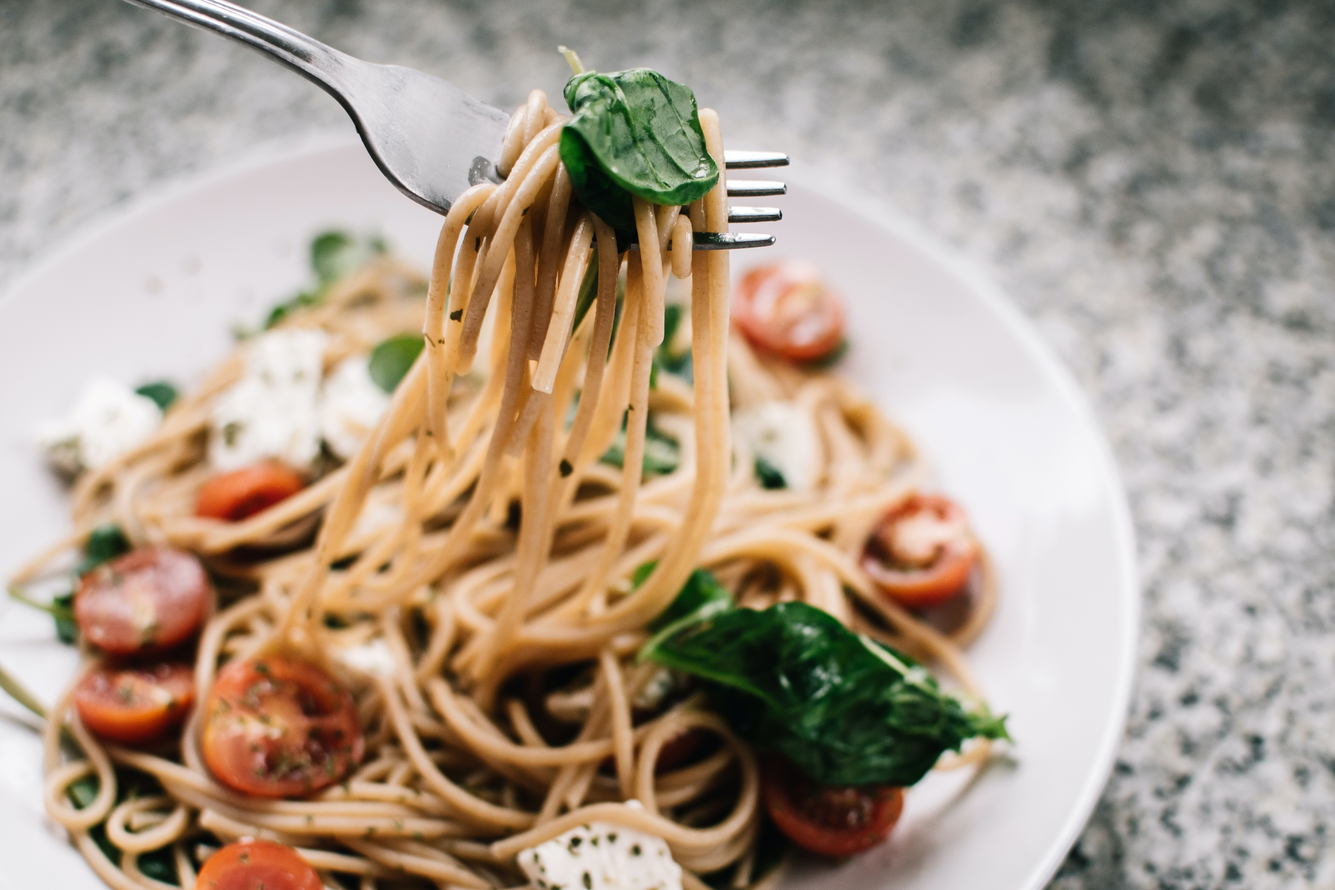
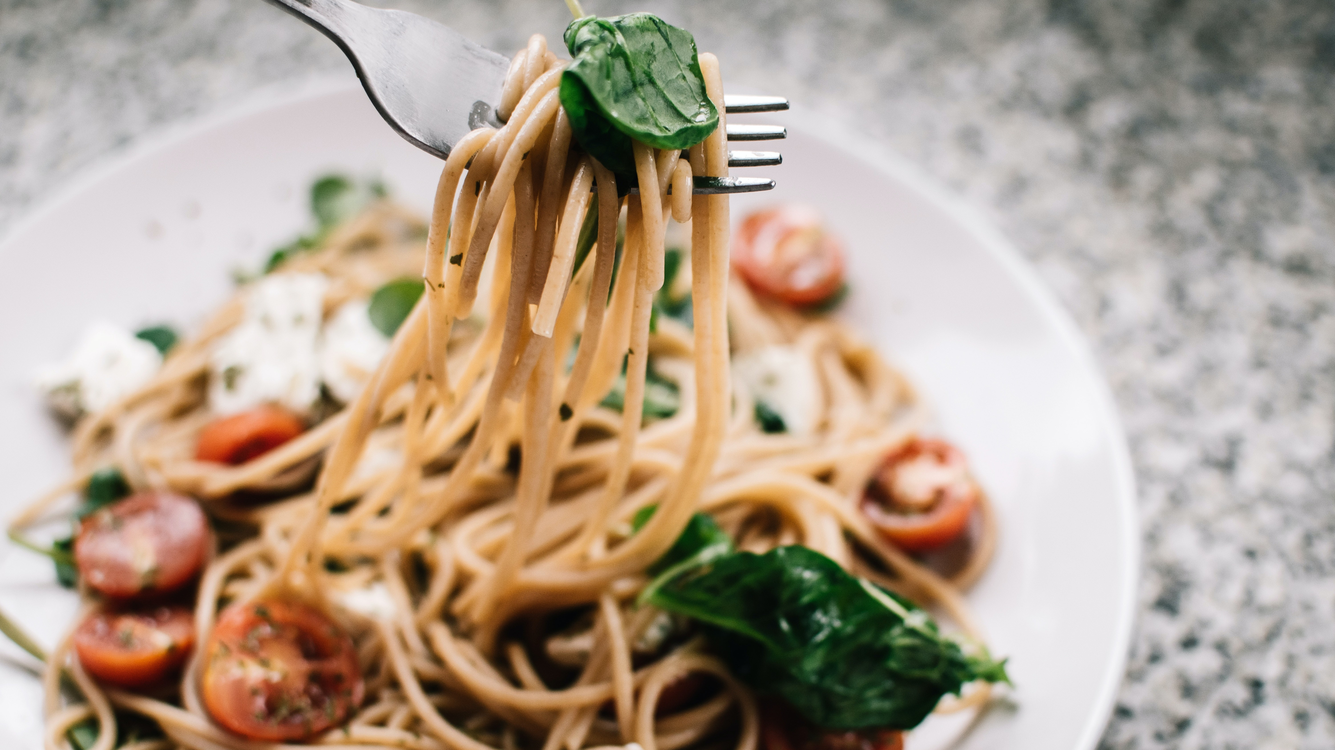
Add dynamic menu with jquery, resizing photos to same aspect ratio

diff --git a/src/index.html b/src/index.html
@@ -23,7 +23,7 @@
             </nav>
             <div class="title-resBtn-container">
                 <h1 class="title">RESTAURANT LP</h1>
-                <button class="title-resBtn" style="background-color: #4e4b5c;">RESERVATIONS</button>
+                <button class="btn title-resBtn" style="background-color: #4e4b5c;">RESERVATIONS</button>
             </div>
         </div>
     </header>
@@ -44,12 +44,12 @@
             </div>
             <div id="menu" class="main-content-block" data-aos="fade" data-aos-delay="400" data-aos-offset="150" data-aos-duration="1000">
                 <h2>Menu</h2>
-                <div class="menu-button-container">
-                    <button class="title-resBtn" style="background-color: #4e4b5c;">Lunch</button>
-                    <button class="title-resBtn" style="background-color: #4e4b5c;">Dinner</button>
-                    <button class="title-resBtn" style="background-color: #4e4b5c;">Wine & Cocktails</button>
+                <div class="menu-btn-container">
+                    <button id="lunch-menu-btn" class="btn menu-btn" style="background-color: #4e4b5c;">Lunch</button>
+                    <button id="dinner-menu-btn" class="btn menu-btn" style="background-color: #4e4b5c;">Dinner</button>
+                    <button id="drink-menu-btn" class="btn menu-btn" style="background-color: #4e4b5c;">Wine & Cocktails</button>
                 </div>
-                <div class="menu-grid-container">
+                <div id='lunch-menu-container' class="menu-grid-container">
                     <div class="menu-grid-item">
                         <h2>Lunch Item</h2>
                         <p>Lorem ipsum dolor sit amet, consectetur adipiscing elit</p>
@@ -80,11 +80,45 @@
                     </div>
                     <div class="menu-grid-item">
                         <h2>Lunch Item</h2>
+                        <p>Lorem ipsum dolor sit amet, consectetur adipiscing elit</p>
+                    </div>
+                </div>
+                <div id="dinner-menu-container" class="menu-grid-container">
+                    <div class="menu-grid-item">
+                        <h2>Dinner Item</h2>
+                        <p>Lorem ipsum dolor sit amet, consectetur adipiscing elit</p>
+                    </div>
+                    <div class="menu-grid-item">
+                        <h2>Dinner Item</h2>
+                        <p>Lorem ipsum dolor sit amet, consectetur adipiscing elit</p>
+                    </div>
+                    <div class="menu-grid-item">
+                        <h2>Dinner Item</h2>
+                        <p>Lorem ipsum dolor sit amet, consectetur adipiscing elit</p>
+                    </div>
+                    <div class="menu-grid-item">
+                        <h2>Dinner Item</h2>
+                        <p>Lorem ipsum dolor sit amet, consectetur adipiscing elit</p>
+                    </div>
+                    <div class="menu-grid-item">
+                        <h2>Dinner Item</h2>
+                        <p>Lorem ipsum dolor sit amet, consectetur adipiscing elit</p>
+                    </div>
+                    <div class="menu-grid-item">
+                        <h2>Dinner Item</h2>
+                        <p>Lorem ipsum dolor sit amet, consectetur adipiscing elit</p>
+                    </div>
+                    <div class="menu-grid-item">
+                        <h2>Dinner Item</h2>
+                        <p>Lorem ipsum dolor sit amet, consectetur adipiscing elit</p>
+                    </div>
+                    <div class="menu-grid-item">
+                        <h2>Dinner Item</h2>
                         <p>Lorem ipsum dolor sit amet, consectetur adipiscing elit</p>
                     </div>
                 </div>
             </div>
-            <div id="hours-and-location" class="main-content-block" data-aos="fade" data-aos-delay="400" data-aos-offset="150" data-aos-duration="1000">
+            <div id="hours-and-location" class="main-content-block" data-aos="fade" data-aos-delay="400" data-aos-offset="50" data-aos-duration="1000">
                 <h2>Hours & Location</h2>
                 <p>Lorem ipsum dolor sit amet, consectetur adipiscing elit, sed do eiusmod tempor incididunt ut labore et dolore magna aliqua. Sapien pellentesque habitant morbi tristique senectus et netus. Lectus sit amet est placerat in egestas erat imperdiet. Sed id semper risus in hendrerit gravida rutrum. Dictum non consectetur a erat nam at lectus urna. Faucibus ornare suspendisse sed nisi lacus sed viverra. Interdum velit euismod in pellentesque massa placerat duis ultricies. Magna sit amet purus gravida quis blandit. Cras semper auctor neque vitae tempus quam pellentesque. Facilisis sed odio morbi quis commodo odio aenean sed. Donec ultrices tincidunt arcu non.</p>
                 <p>Ultricies lacus sed turpis tincidunt id aliquet risus feugiat in. At erat pellentesque adipiscing commodo elit at imperdiet dui accumsan. Dui vivamus arcu felis bibendum ut. Quis viverra nibh cras pulvinar mattis nunc sed blandit libero. Mi bibendum neque egestas congue quisque egestas diam in arcu. Vel pharetra vel turpis nunc eget lorem dolor. Senectus et netus et malesuada fames ac turpis. Aliquet sagittis id consectetur purus ut faucibus pulvinar elementum. Malesuada nunc vel risus commodo viverra maecenas accumsan. Vitae et leo duis ut diam quam. Amet est placerat in egestas erat imperdiet sed euismod nisi. Id nibh tortor id aliquet lectus proin nibh nisl.</p>

diff --git a/src/stylesheets/styles.scss b/src/stylesheets/styles.scss
@@ -26,6 +26,20 @@ h1 {
   font-family: "Playfair Display", Garamond, "Times New Roman";
 }
 
+.btn {
+  width: 8rem;
+  border: none;
+  padding: 1rem .5rem .5rem;
+  text-decoration: none;
+  color: rgba(255, 255, 255, 0.83);
+  cursor: pointer;
+  font-weight: bolder;
+  &:hover {
+    background-color: $light !important;
+  }
+  transition: background-color 0.4s;
+}
+
 .header {
   background-color: $header-bg;
   color: $header-font-color;
@@ -47,7 +61,6 @@ h1 {
 
 .vertical-line {
   border-left: 2px solid white;
-  // height: 1rem;
   padding-left: .25rem;
 }
 
@@ -66,25 +79,11 @@ h1 {
 }
 
 .title-resBtn {
-  width: 8rem;
   margin-right: 1rem;
   justify-self: flex-end;
-  border: none;
-  padding: 1rem .5rem .5rem;
-  text-decoration: none;
-  color: rgba(255, 255, 255, 0.83);
-  cursor: pointer;
-  font-weight: bolder;
-  &:hover {
-    background-color: $light !important;
-  }
-  transition: background-color 0.4s;
 }
 
 .main-content-container {
-  display: flex;
-  align-items: center;
-  flex-direction: column;
   background-color: $bg-color;
   color: $font-color;
   padding: 1rem;
@@ -102,11 +101,7 @@ h1 {
   height: 100vh;
 }
 
-.carousel-img {
-
-}
-
-.menu-button-container {
+.menu-btn-container {
   margin-bottom: 1rem;
 }
 
@@ -114,7 +109,6 @@ h1 {
   height: 500px;
   display: grid;
   grid-template: repeat(4, 1fr) / 1fr 1fr;
-  // width: 100%;
 }
 
 .menu-grid-item {

diff --git a/src/js/scripts.js b/src/js/scripts.js
@@ -18,6 +18,17 @@ $(() => {
     dots: false
   })
 
+  $('#dinner-menu-container').hide();
+  // $('.drink-menu').hide();
   AOS.init();
 });
+
+// $('.menu-btn').on('click', (e) => {
+//   $('.menu-grid-container').hide();
+//   if(e.target.id === 'lunch-menu-btn'){
+//     $('#lunch-menu-container').show();
+//   } else {
+//     $('#dinner-menu-container').show();
+//   }
+// })
 
